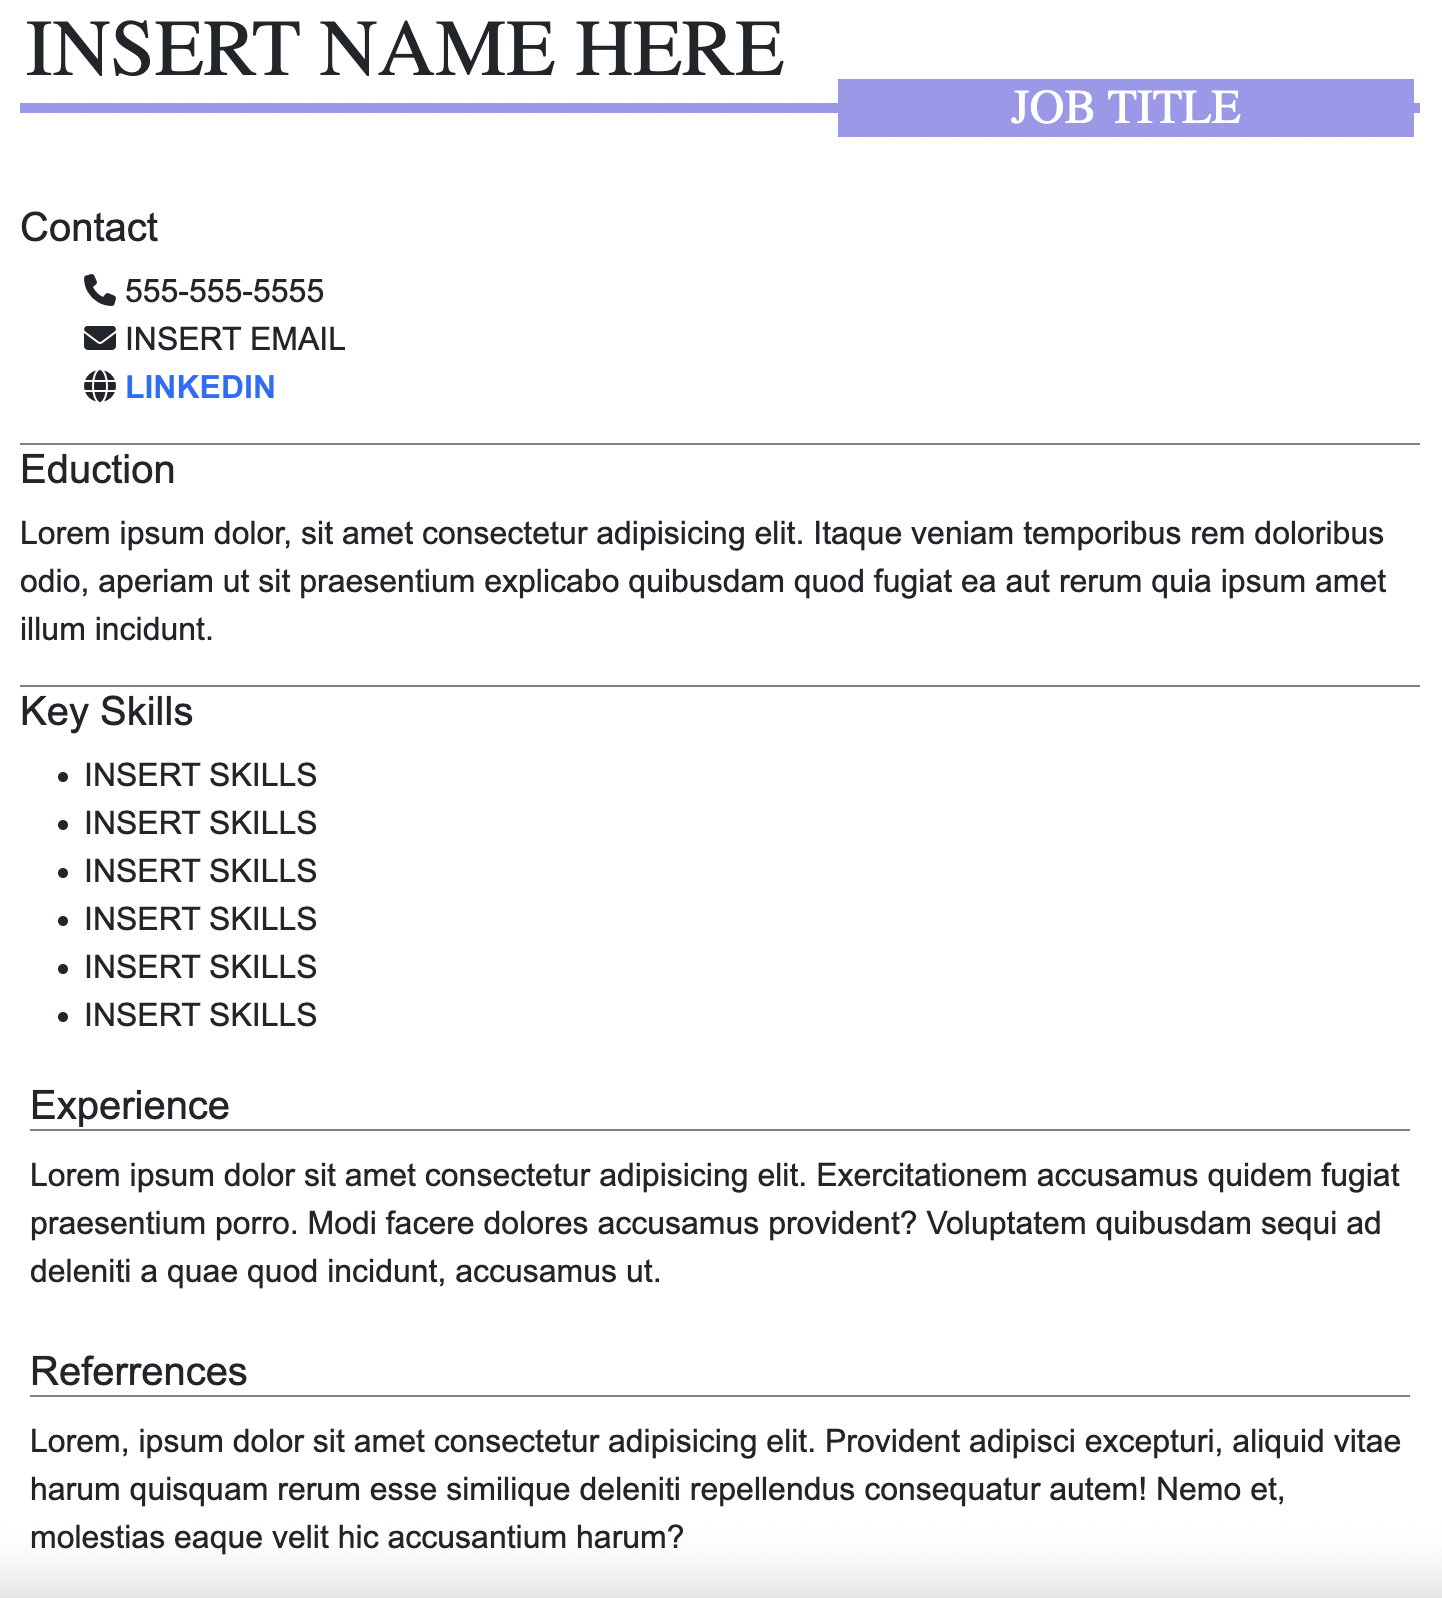
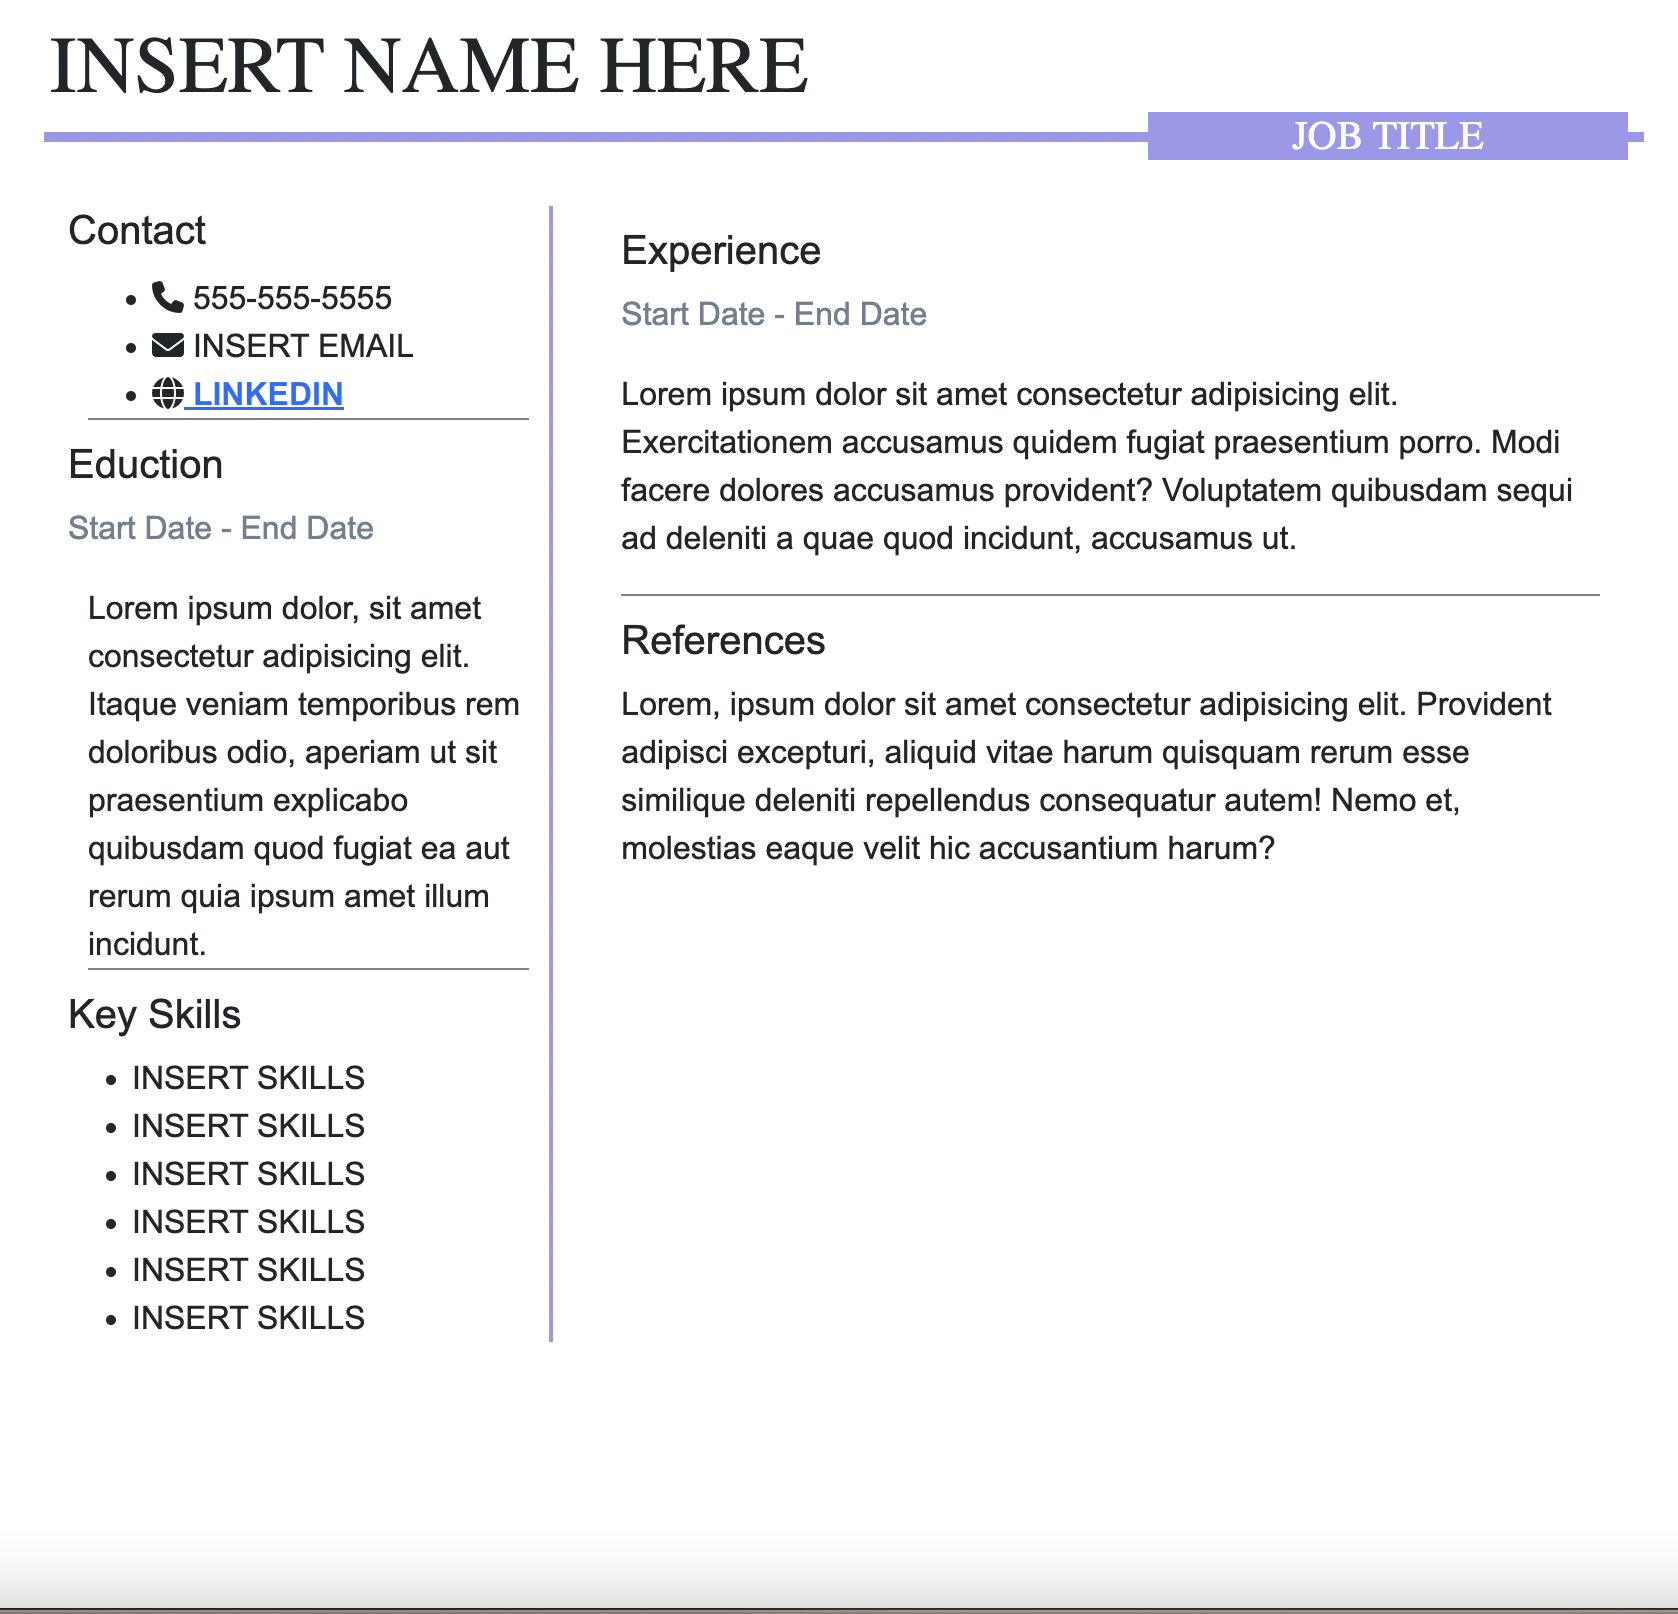
fixed js, changed html homepage, redid cy-resume, and css

Changed region(s): [[0.0, 0.1227, 1.0, 1.0], [0.0, 0.0, 0.9986, 0.1227]]

diff --git a/templates/index.html b/templates/index.html
@@ -11,34 +11,29 @@
 
 </head>
 <body>
+    <header>
     <div class="header">
-
-        <div id="headerName">
-            <header class="user-name">
-                <h2 class="name">INSERT NAME HERE</h2>
-        </header> 
-        </div>
-            <div id="jobTitle" class="title">
-                <h4 class="job">JOB TITLE</h4>
-            </div>
+        <header class="name">INSERT NAME HERE</header>
     </div>
 
-    <div class="side-content">
-        <aside class="contact-info">
+    <div id="jobTitle" class="title">
+        <h4 class="job">JOB TITLE</h4>
+    </div>
+    </header>
+
+    <div class="container">
+        <div class="row">
+        <div class="col-8 col-md-4 col-sm-3">
+          <div class="col-12" id="leftside">
             <h5>Contact</h5>
             <ul class="contact-list">
                 <li class="phone"><i class="fa-solid fa-phone"></i> 555-555-5555</li>
                 <li><i class="fa-solid fa-envelope"></i> INSERT EMAIL</li>
                 <li><i class="fa-solid fa-globe"><a class="link" href="ADDLINKEDINURL"> LINKEDIN</a></i></li>
             </ul>
-        </aside>
-
-        <aside class="education">
             <h5>Eduction</h5>
-            <p>Lorem ipsum dolor, sit amet consectetur adipisicing elit. Itaque veniam temporibus rem doloribus odio, aperiam ut sit praesentium explicabo quibusdam quod fugiat ea aut rerum quia ipsum amet illum incidunt.</p>
-        </aside>
-
-        <aside class="key-skills">
+            <p class="date">Start Date - End Date</p>
+            <p class="info">Lorem ipsum dolor, sit amet consectetur adipisicing elit. Itaque veniam temporibus rem doloribus odio, aperiam ut sit praesentium explicabo quibusdam quod fugiat ea aut rerum quia ipsum amet illum incidunt.</p>
             <h5>Key Skills</h5>
             <ul>
                 <li>INSERT SKILLS</li>
@@ -48,20 +43,23 @@
                 <li>INSERT SKILLS</li>
                 <li>INSERT SKILLS</li>
             </ul>
-        </aside>
-    </div>
-    
-<div class ="main">
-    <div class="experience">
-        <h5 class="user-experience">Experience</h5>
-        <p>Lorem ipsum dolor sit amet consectetur adipisicing elit. Exercitationem accusamus quidem fugiat praesentium porro. Modi facere dolores accusamus provident? Voluptatem quibusdam sequi ad deleniti a quae quod incidunt, accusamus ut.</p>
+        </div>
     </div>
 
-    <div class="referrence">
-        <h5 class="job-referrence">Referrences</h5>
-        <p>Lorem, ipsum dolor sit amet consectetur adipisicing elit. Provident adipisci excepturi, aliquid vitae harum quisquam rerum esse similique deleniti repellendus consequatur autem! Nemo et, molestias eaque velit hic accusantium harum?</p>
+     <div class="col-12 col-md-8">
+        <div class="experience">
+            <h5 class="user-experience">Experience</h5>
+            <p class="date">Start Date - End Date</p>
+            <p>Lorem ipsum dolor sit amet consectetur adipisicing elit. Exercitationem accusamus quidem fugiat praesentium porro. Modi facere dolores accusamus provident? Voluptatem quibusdam sequi ad deleniti a quae quod incidunt, accusamus ut.</p>
+        </div>
+    
+        <div class="reference">
+            <h5 class="job-reference">References</h5>
+            <p>Lorem, ipsum dolor sit amet consectetur adipisicing elit. Provident adipisci excepturi, aliquid vitae harum quisquam rerum esse similique deleniti repellendus consequatur autem! Nemo et, molestias eaque velit hic accusantium harum?</p>
+        </div>
     </div>
 </div>
+
 
 
 </body>

diff --git a/public/css/style.css b/public/css/style.css
@@ -1,6 +1,6 @@
 /* Universal Selector */
 * {
-    max-width: 700px;
+    max-width: 800px;
     margin: auto;
     font-family:Arial, Helvetica, serif;
 }
@@ -14,162 +14,54 @@
 }
 
 .job {
-    justify-content: center;
-    font-family: serif;
-    background-color: #9C98EE;
-    width: 18rem;
-    color: white;
-    display: flex;
-    position: relative;
-    left: 29%;
-    bottom: 25px;
+  background-color: #9C98EE;
+  font-size: 20px;
+  color: white;
+  font-family: serif;
+  width: 30%;
+  text-align: center;
+  position: relative;
+  left: 34%;
+  bottom: 15px;
+}
+
+#leftside {
+  border-right: 2px solid #9C98EE;
 }
 
 
 .contact-list {
-    list-style: none;
+  border-bottom: 1px solid gray;
+  margin: 10px;
 }
 
-.contact-info {
-    border-bottom: 1px solid gray;
+.info {
+  border-bottom: 1px solid gray;
+  margin: 10px;
 }
 
-.education {
-    border-bottom: 1px solid gray;
-
+.date {
+  color: slategray;
 }
-
-.link {
-    text-decoration: none;
-}
-
 
 .experience {
-    top: 62px;
-    right: 6rem;
-    padding: 5px;
+  border-bottom: 1px solid gray;
+  margin: 10px;
 }
 
-.user-experience {
-    border-bottom: 1px solid gray;
-    margin-bottom: 10px;
+.reference {
+  margin: 10px;
 }
 
-.referrence {
-    top: 10rem;
-    right: 6rem;
-    padding: 5px;
-}
 
-.job-referrence {
-    border-bottom: 1px solid gray;
-    margin-bottom: 10px;
-}
+
+
+
+
+
+
+
+
+
   
-  /* Element Selectors */
-  body {
-    position: relative;
-    font-family: "Goudy Bookletter 1911", sans-serif;
-    font-size: 20px;
-    background-color: #FDF8F5;
-    color: #4F4846;
-  }
   
-  h1,
-  h2 {
-    margin: 20px;
-  }
-  
-  main {
-    padding: 60px 0;
-  }
-  
-  li {
-    display: inline;
-    padding: 0px 20px;
-    text-decoration: none;
-  }
-  
-  a {
-    text-decoration: none;
-    color: #FDF8F5;
-  }
-  
-  header,
-  footer {
-    height: 60px;
-    width: 100%;
-    line-height: 60px;
-    background-color: #266150;
-  }
-  
-  header {
-    position: fixed;
-    border-bottom: 10px solid #DDAF94;
-  }
-  
-  footer {
-    position: absolute;
-    margin-top: 0;
-    bottom: 0;
-    border-bottom: 10px solid #4F4846;
-    color: #FDF8F5;    
-  }
-  
-  figure {
-    margin-bottom: 40px;
-  }
-  
-  img {
-    display: block;
-    margin: 20px auto;
-  }
-  
-  section {
-    margin-bottom: 0;
-    padding: 20px 10px 40px 10px;
-    border-top: 3px solid #DDAF94;
-    background-color:  #E8CEBF;
-  }
-  
-  form {
-    /* Center the form on the page */
-    margin: 0 auto;
-    width: 500px;
-    padding: 10px;
-    border: 5px solid #DDAF94;
-    border-radius: 20px;
-  }
-  
-  label {
-    display: inline-block;
-    width: 100px;
-  }
-    
-  input, 
-  textarea {
-    box-sizing: border-box;
-    width: 300px;
-    border: 1px solid #4F4846;
-  }
-  
-  textarea {
-    vertical-align: top;
-    height: 60px;
-  }
-    
-  button {
-    height: 40px;
-    width: 120px;
-    background-color: #4F4846;
-    color: #FDF8F5;
-  }
-   
-  /* Class Selectors */
-  .text-center {
-    text-align: center;
-  }
-  
-  .text-right {
-    text-align: right;
-  }

diff --git a/public/js/script.js b/public/js/script.js
@@ -1,4 +1,6 @@
 const addBtn = $("#addExperienceBtn");
+const educationBtn = $("#addEducationBtn");
+const projectsBtn = $('#addProjectsBtn');
 const uploadBtn = $(".btn");
 const experience = $(".experience");
 const education = $(".education");
@@ -14,7 +16,7 @@ addBtn.on("click", function () {
         $("<label>")
           .attr("for", `experienceText${count}`)
           .addClass("form-label")
-          .text("test")
+          .text("Experience")
       )
       .append(
         $("<textarea>")
@@ -25,3 +27,45 @@ addBtn.on("click", function () {
   );
   count++;
 });
+
+educationBtn.on("click", function () {
+    console.log("it clicks");
+    education.append(
+      $("<div>")
+        .addClass("mb-3")
+        .append(
+          $("<label>")
+            .attr("for", `educationText${count}`)
+            .addClass("form-label")
+            .text("Education")
+        )
+        .append(
+          $("<textarea>")
+            .addClass("form-control")
+            .attr("rows", "3")
+            .attr("id", `educationText${count}`)
+        )
+    );
+    count++;
+  });
+
+  projectsBtn.on("click", function () {
+    console.log("it clicks");
+    projects.append(
+      $("<div>")
+        .addClass("mb-3")
+        .append(
+          $("<label>")
+            .attr("for", `projectsText${count}`)
+            .addClass("form-label")
+            .text("Projects")
+        )
+        .append(
+          $("<textarea>")
+            .addClass("form-control")
+            .attr("rows", "3")
+            .attr("id", `projectsText${count}`)
+        )
+    );
+    count++;
+  });

diff --git a/public/css/homepage.css b/public/css/homepage.css
@@ -20,12 +20,12 @@ label {
 }
 
 .form-control {
-    width: 50%;
+    width: 60%;
     margin: 10px;
 }
 
 .input-group {
-    width: 30%;
+    width: 60%;
 }
 
 button {
